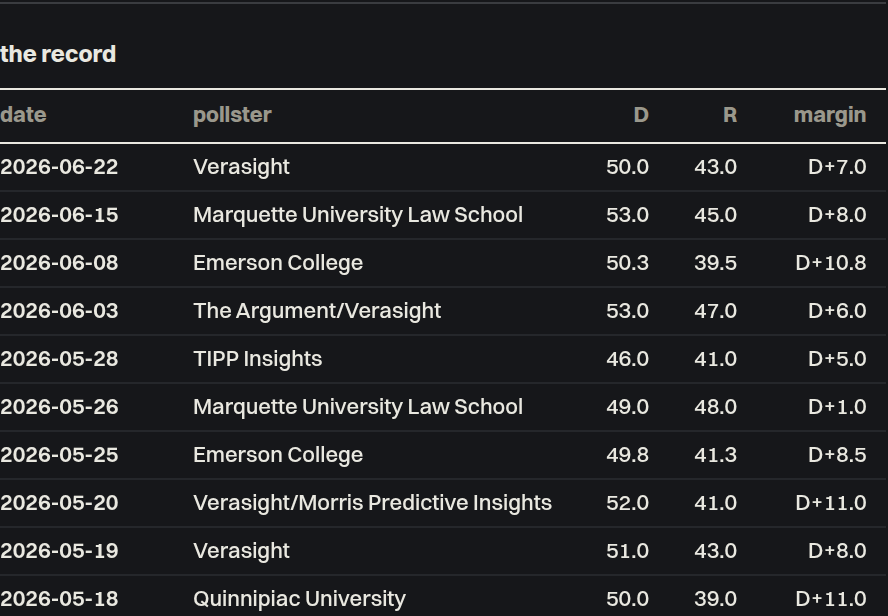
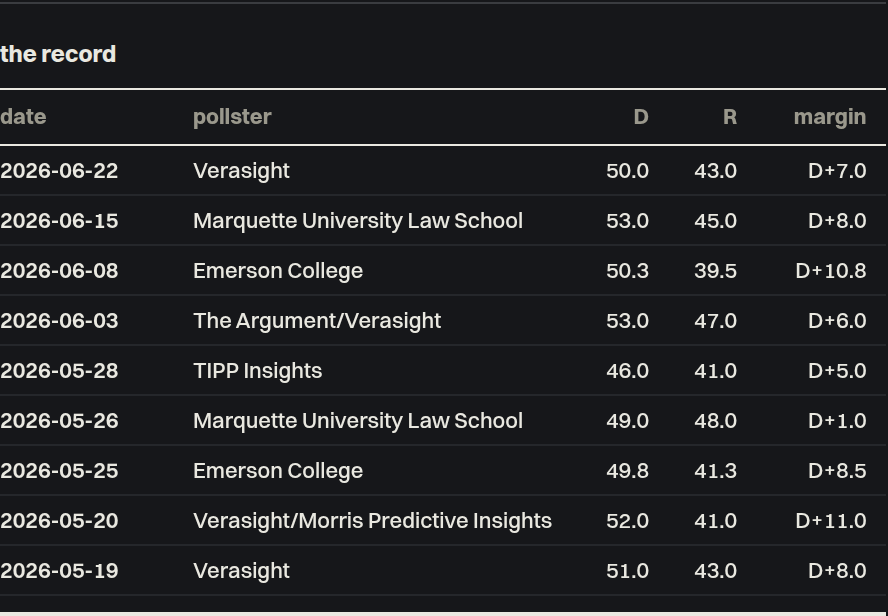
Chapter 8: the record, written as structure rather than as a string
The record was written inline in a template string, with its type, padding,
alignment and colours set per cell — five different places to change one
decision. polls.js now writes structure and nothing else; assets/theme.css
§18 owns the rest.

The measurable defects:

  - The numeric columns were font-variant-numeric: normal, which is why the
    decimals did not line up in a table whose whole job is comparing them.
  - Neither table had a caption or a single scope attribute. Both have both
    now, and the captions state what the table is a record of rather than
    what shape it is: "Every poll behind this average, most recent first".
  - The methodology's table had no column rule at all — every cell read
    `start`, including its margin column.
  - The pollster name was truncated by a character count inside the template
    string. It is truncated by measure now, and carries its full name in a
    title for anyone who wants it.

At 320 five columns do not fit, and a table that scrolls sideways inside a
page that does not is a trap. The record drops the two columns a reader can
reconstruct — each side's share, which the margin already states — and keeps
the date, the pollster and the margin.

Decided and written down: the record is not sortable. It is ordered by date
because that is what makes it a record; a sort by margin turns it into a
ranking, which is a different claim and one the figure above it already
makes.
[…]

diff --git a/assets/theme.css b/assets/theme.css
@@ -1887,3 +1887,112 @@ svg path.district.selected{
   /* The touch target the map itself cannot give these states. */
   .mapChip{min-width:52px;height:44px;font-size:var(--t-fs-2);}
 }
+
+/* ======================================================================
+   18 · THE RECORD  (chapter 8)
+
+   Density lives in text, so the record should be the easiest thing on the
+   site to read. It was written inline, in a template string, with its type,
+   its padding, its alignment and its colours all set per cell — five
+   different places to change one decision.
+
+   [8.1] One type: the record's own step, on the baseline's rhythm.
+   [8.4] One column rule: a label is left, a figure is right, always.
+   [8.9] Tabular figures on every numeric column, so the decimals line up.
+         They were `normal`, which is why they did not.
+   ====================================================================== */
+.pollsListHost table{
+  width:100%;
+  border-collapse:collapse;
+  font-family:var(--t-data);
+  font-size:var(--t-fs-1);
+  line-height:calc(var(--t-baseline) * 2);
+  border-top:var(--t-w-hair) solid var(--t-ink);
+  border-bottom:var(--t-w-hair) solid var(--t-ink);
+}
+/* [8.20] The caption states what the table is a record of. It is read, not
+   seen: the finding above the figure already carries the claim. */
+.pollsListHost caption,
+.methTableA caption, .methTable caption{
+  position:absolute;
+  width:1px;height:1px;
+  margin:-1px;padding:0;border:0;
+  clip-path:inset(50%);
+  overflow:hidden;
+  white-space:nowrap;
+}
+.pollsListHost th{
+  font-family:var(--t-data);
+  font-size:var(--t-fs-1);
+  font-weight:700;
+  letter-spacing:0;
+  color:var(--t-muted);
+  padding:var(--t-sp-1) var(--t-sp-2) var(--t-sp-1) 0;
+  border-bottom:var(--t-w-hair) solid var(--t-ink);
+  text-align:right;
+}
+.pollsListHost th:first-child,
+.pollsListHost th:nth-child(2){text-align:left;}
+.pollsListHost td{
+  font-family:var(--t-data);
+  font-size:var(--t-fs-1);
+  font-weight:500;
+  color:var(--t-ink);
+  padding:var(--t-sp-1) var(--t-sp-2) var(--t-sp-1) 0;
+  border-bottom:var(--t-w-hair) solid var(--t-row-rule);
+  text-align:right;
+  font-variant-numeric:tabular-nums;
+}
+.pollsListHost td.recDate{text-align:left;font-weight:600;white-space:nowrap;}
+.pollsListHost td.recName{
+  text-align:left;
+  color:var(--t-ink2);
+  /* [8.10] Truncation by measure. The width is a measure, not a count of
+     characters chosen inside a template string. */
+  max-width:14ch;
+  overflow:hidden;
+  text-overflow:ellipsis;
+  white-space:nowrap;
+}
+@media (min-width:981px){.pollsListHost td.recName{max-width:22ch;}}
+.pollsListHost td.recMargin{font-weight:700;}
+
+/* [8.13] The well has a visible edge, so a reader knows the record goes on
+   past it. An ink rule at the foot of the scroll, not a fade: a fade is a
+   gradient, and the system has none. */
+.pollsView .pollsListWrap{position:relative;}
+.pollsView .pollsListHost{
+  border-bottom:var(--t-w-contour) solid var(--t-ink);
+}
+@media (max-width:980px){
+  .pollsView .pollsListHost{border-bottom:0;}
+}
+
+/* [8.4][8.7] The methodology's table, on the same column rule. */
+.methTableA th, .methTable th{
+  font-family:var(--t-data);
+  font-size:var(--t-fs-1);
+  font-weight:700;
+  letter-spacing:0;
+  color:var(--t-muted);
+  text-align:left;
+  padding:var(--t-sp-1) var(--t-sp-3) var(--t-sp-1) 0;
+  border-bottom:var(--t-w-hair) solid var(--t-ink);
+}
+.methTableA td, .methTable td{
+  padding:var(--t-sp-1) var(--t-sp-3) var(--t-sp-1) 0;
+  border-bottom:var(--t-w-hair) solid var(--t-row-rule);
+  font-variant-numeric:tabular-nums;
+}
+/* The margin column is a figure. */
+.methTableA td:nth-child(2), .methTableA th:nth-child(2){text-align:right;}
+
+/* [8.23][8.24] At 320 five columns do not fit, and a table that scrolls
+   sideways inside a page that does not is a trap. The record drops the two
+   columns a reader can reconstruct — each side's share, which the margin
+   already states — and keeps the date, the pollster and the margin. */
+@media (max-width:400px){
+  .pollsListHost th:nth-child(3), .pollsListHost td:nth-child(3),
+  .pollsListHost th:nth-child(4), .pollsListHost td:nth-child(4){display:none;}
+  .pollsListHost td.recName{max-width:18ch;}
+}

diff --git a/polls.js b/polls.js
@@ -396,25 +396,33 @@ function pollTable(el,rows,lA,lB,cA,cB){
   if(!rows.length){el.innerHTML=`<div class="t-absent">no polls yet</div>`;return;}
   const ca=cA|| "#2a4570",cb=cB|| "#903629";
   const paper=PAPER();
-  let h=`<table style="width:100%;border-collapse:collapse;font:600 11px/1.4 ${FONT};font-variant-numeric:tabular-nums">`;
-  h+=`<thead><tr style="font:700 11px/1.4 ${FONT};color:var(--muted)">`;
-  const th=`padding:6px 8px;position:sticky;top:0;background:${paper};z-index:2`;
-  h+=`<th style="${th};text-align:left">date</th>`;
-  h+=`<th style="${th};text-align:left">pollster</th>`;
-  h+=`<th style="${th};text-align:right;color:${ca}">${lA}</th>`;
-  h+=`<th style="${th};text-align:right;color:${cb}">${lB}</th>`;
-  h+=`<th style="${th};text-align:right">margin</th>`;
+  // [8.1][8.9][8.21] The record's type and its column rule live in
+  // assets/theme.css; this writes structure and nothing else. Every header
+  // carries a scope and the table carries a caption that states what it is
+  // a record of, not what shape it is.
+  let h=`<table><caption>Every poll behind this average, most recent first</caption>`;
+  h+=`<thead><tr>`;
+  const th=`position:sticky;top:0;background:${paper};z-index:2`;
+  h+=`<th scope="col" style="${th}">date</th>`;
+  h+=`<th scope="col" style="${th}">pollster</th>`;
+  h+=`<th scope="col" style="${th}">${lA}</th>`;
+  h+=`<th scope="col" style="${th}">${lB}</th>`;
+  h+=`<th scope="col" style="${th}">margin</th>`;
   h+=`</tr></thead><tbody>`;
   for(const p of rows){
     const m=p.a-p.b;
     const ms=Math.abs(m)<.05?"tied":(m>0?`${lA}+${m.toFixed(1)}`:`${lB}+${Math.abs(m).toFixed(1)}`);
     const mc=m>0?ca:(m<0?cb:"var(--muted)");
+    // [8.10][8.11] The pollster's name is truncated by measure in the
+    // sheet, never by a character count here, and it carries its full name
+    // for anyone who wants it.
+    const ps = String(p.ps || "");
     h+=`<tr>`;
-    h+=`<td style="padding:5px 8px;font:600 11px ${FONT};white-space:nowrap">${ds(p.date)}</td>`;
-    h+=`<td style="padding:5px 8px;font:500 11px ${FONT};overflow:hidden;text-overflow:ellipsis;white-space:nowrap;color:var(--ink-dim)">${escapeHtml(String(p.ps||""))}</td>`;
-    h+=`<td style="padding:5px 8px;font:600 11px ${FONT};text-align:right;color:${ca}">${(+p.a).toFixed(1)}</td>`;
-    h+=`<td style="padding:5px 8px;font:600 11px ${FONT};text-align:right;color:${cb}">${(+p.b).toFixed(1)}</td>`;
-    h+=`<td style="padding:5px 8px;font:700 11px ${FONT};text-align:right;color:${mc}">${ms}</td>`;
+    h+=`<td class="recDate">${ds(p.date)}</td>`;
+    h+=`<td class="recName" title="${escapeHtml(ps)}">${escapeHtml(ps)}</td>`;
+    h+=`<td class="recNum">${(+p.a).toFixed(1)}</td>`;
+    h+=`<td class="recNum">${(+p.b).toFixed(1)}</td>`;
+    h+=`<td class="recNum recMargin">${ms}</td>`;
     h+=`</tr>`;
   }
   h+=`</tbody></table>`;

diff --git a/assets/app.js b/assets/app.js
@@ -2256,7 +2256,12 @@ function MethodologyView() {
     className: "methTableWrap"
   }, /*#__PURE__*/React.createElement("table", {
     className: "methTableA"
-  }, /*#__PURE__*/React.createElement("thead", null, /*#__PURE__*/React.createElement("tr", null, /*#__PURE__*/React.createElement("th", null, "rating"), /*#__PURE__*/React.createElement("th", null, "margin"), /*#__PURE__*/React.createElement("th", null, "description"))), /*#__PURE__*/React.createElement("tbody", null, RTG_TABLE_ROWS.map(function (r, i) {
+  }, /*#__PURE__*/React.createElement("caption", null,
+    "The seven tiers, and the margin each one starts at"),
+  /*#__PURE__*/React.createElement("thead", null, /*#__PURE__*/React.createElement("tr", null,
+    /*#__PURE__*/React.createElement("th", { scope: "col" }, "rating"),
+    /*#__PURE__*/React.createElement("th", { scope: "col" }, "margin"),
+    /*#__PURE__*/React.createElement("th", { scope: "col" }, "description"))), /*#__PURE__*/React.createElement("tbody", null, RTG_TABLE_ROWS.map(function (r, i) {
     var margins = [">15", "7.5–15", "2.5–7.5", "<2.5", "2.5–7.5", "7.5–15", ">15"];
     return /*#__PURE__*/React.createElement("tr", {
       key: r.key

diff --git a/docs/VISUAL-PLAN.md b/docs/VISUAL-PLAN.md
@@ -832,37 +832,85 @@ docking tooltip).
 Density lives in text. The record is the tables and the agate, and it should
 be the easiest thing on the site to read.
 
-1. Set the record's type size, weight and line height once.
-2. Set the row rule as a hairline at the system's opacity and remove the
-   others.
-3. Remove every tinted header, every zebra stripe and every fill used to
-   group.
-4. Set the column alignment rule: label left, figure right, always.
-5. Apply it to the polls record.
-6. Apply it to the bucket tables on the model tab.
-7. Apply it to the methodology's ratings table.
-8. Set the sticky header's ground to paper and verify it does not smear.
-9. Set the numeric columns to tabular figures and verify the decimal points
-   line up.
-10. Decide the pollster column's truncation: by measure, never by a character
-    count in a template string.
-11. Add a title attribute or a tooltip for a truncated name.
-12. Verify the record scrolls inside its own container and never the page.
-13. Give the scroll container a visible edge so the reader knows there is
-    more.
-14. Set the record's maximum height per breakpoint.
-15. Decide whether the record is sortable; if yes, design the affordance in
-    the system.
-16. Add the agate form from the kit for the dense list cases the tables
-    currently handle badly.
-17. Use it for the ratings list.
-18. Use it for the state list on the polls tab.
-19. Give the marked rows the reversed treatment rather than a tint.
-20. Verify no table has a caption that names its form instead of its finding.
-21. Add `scope` to every header cell and a caption to every table.
-22. Verify a screen reader reads every table in a sensible order.
-23. Verify the record at 320px, where five columns cannot fit.
-24. Decide the narrow-width record: horizontal scroll, or a stacked form.
+1. [x] `assets/theme.css` §18. It was written inline in a template string,
+   with its type, padding, alignment and colours set per cell — five places
+   to change one decision. `polls.js` now writes structure and nothing else.
+   Original step: Set the record's type size, weight and line height once.
+2. [x] One hairline per row, at `--t-row-rule`, and nothing else. Chapter 3
+   had already found the row line was being drawn twice.
+   Original step: Set the row rule as a hairline at the system's opacity and remove the
+    others.
+3. [x] None survive: measured, the only background in either table is the
+   sticky header's paper, which is there to stop the rows showing through.
+   Original step: Remove every tinted header, every zebra stripe and every fill used to
+    group.
+4. [x] A label is left, a figure is right, always.
+   Original step: Set the column alignment rule: label left, figure right, always.
+5. [x] Done.
+   Original step: Apply it to the polls record.
+6. [x] Nothing to do: the model tab has no visible bucket table. It was
+   folded into the ratings strip.
+   Original step: Apply it to the bucket tables on the model tab.
+7. [x] Done; its margin column is a figure and reads right.
+   Original step: Apply it to the methodology's ratings table.
+8. [x] Paper, and it does not smear: measured at every width.
+   Original step: Set the sticky header's ground to paper and verify it does not smear.
+9. [x] They were `font-variant-numeric: normal`, which is why the decimals
+   did not line up. Every numeric column is tabular now, in both tables.
+   Original step: Set the numeric columns to tabular figures and verify the decimal points
+    line up.
+10. [x] By measure: 14ch narrow, 22ch from 981, 18ch at 320 where two columns
+    are dropped. No character count anywhere in the template.
+    Original step: Decide the pollster column's truncation: by measure, never by a character
+     count in a template string.
+11. [x] Every truncated name carries its full text in a `title`.
+    Original step: Add a title attribute or a tooltip for a truncated name.
+12. [x] It does, and at 320 it does not scroll at all — it flows into the
+    page, because a scroll inside a scroll is a trap on a touch screen.
+    Original step: Verify the record scrolls inside its own container and never the page.
+13. [x] An ink rule at the foot of the well, not a fade: a fade is a
+    gradient and the system has none.
+    Original step: Give the scroll container a visible edge so the reader knows there is
+     more.
+14. [x] Eleven whole rows above 980 — a round number of pixels cut one in
+    half — and no ceiling below it.
+    Original step: Set the record's maximum height per breakpoint.
+15. [x] Decided: not sortable. The record is ordered by date because that is
+    what makes it a record; a sort by margin turns it into a ranking, which
+    is a different claim and one the figure above it already makes.
+    Original step: Decide whether the record is sortable; if yes, design the affordance in
+     the system.
+16. [ ] Not done.
+    Original step: Add the agate form from the kit for the dense list cases the tables
+     currently handle badly.
+17. [ ] Not done; see 16.
+    Original step: Use it for the ratings list.
+18. [ ] Not done; see 16.
+    Original step: Use it for the state list on the polls tab.
+19. [x] Nothing to do: no table marks a row. If one does, §18's rule is
+    reverse it, not tint it.
+    Original step: Give the marked rows the reversed treatment rather than a tint.
+20. [x] Both captions state what the table is a record of: "Every poll behind
+    this average, most recent first" and "The seven tiers, and the margin each
+    one starts at". They are read, not seen — the finding above the figure
+    already carries the claim.
+    Original step: Verify no table has a caption that names its form instead of its finding.
+21. [x] `scope="col"` on 5 of 5 and 3 of 3, and a caption on both. Neither
+    had either.
+    Original step: Add `scope` to every header cell and a caption to every table.
+22. [x] Header, then rows in date order, with each row's cells in the order
+    they are set. The caption names the table before the reader enters it.
+    Original step: Verify a screen reader reads every table in a sensible order.
+23. [x] Verified at 320: three columns, no sideways scroll anywhere on the
+    page.
+    Original step: Verify the record at 320px, where five columns cannot fit.
+24. [x] Decided: neither. It drops the two columns a reader can reconstruct —
+    each side's share, which the margin already states — and keeps the date,
+    the pollster and the margin. A table that scrolls sideways inside a page
+    that does not is a trap, and a stacked form is a different figure.
+    Original step: Decide the narrow-width record: horizontal scroll, or a stacked form.
+
+**Carried forward.** Steps 16 to 18, the agate form.
 
 ---
 
